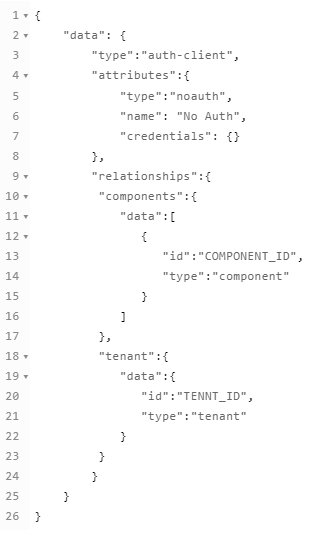
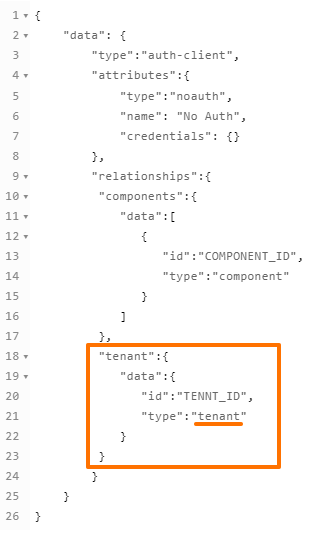
Review RestAPI-v2 Auth

Changed region(s): [[0.2395, 0.6257, 0.8383, 0.8939], [0.5689, 0.7747, 0.7186, 0.8045]]

diff --git a/content/_components/rest-api/authorization-methods.md b/content/_components/rest-api/authorization-methods.md
@@ -56,7 +56,9 @@ Each auth-client is unique to a component. That means if you deploy another copy
 
 ![Noauth example](img/auth-client-noauth.png)
 
-<details close markdown="block"><summary><strong>noauth body</strong></summary>
+As you can see in the ???orange block???,  the above API call body is for creating `noauth` type auth-client for the whole tenant. You can choose between `component`, `workspace`, `contract` and `tenant` levels. For more information please visit out [API documentation]({{site.data.tenant.apiBaseUri}}/docs/v2/#create-auth-client).
+
+<details close markdown="block"><summary><strong>noauth body in json</strong></summary>
 
 ```json
 {
@@ -89,7 +91,16 @@ Each auth-client is unique to a component. That means if you deploy another copy
 
 </details>
 
-As you can see in the ???third block???,  the above API call body is for creating `noauth` type auth-client for the whole tenant. You can choose between `component`, `workspace`, `contract` and `tenant` levels. For more information please visit out [API documentation]({{site.data.tenant.apiBaseUri}}/docs/v2/#create-auth-client).
+> **Please Note:** authClientTypes must be exactly the same as specified in the component structure.
+```json
+"authClientTypes": [
+    "oauth2",
+    "basic",
+    "api_key",
+    "noauth"
+  ]
+```
+
 ### Environment variables
 
 | NAME                       | DESCRIPTION    | DEFAULT   | OPTIONAL |
